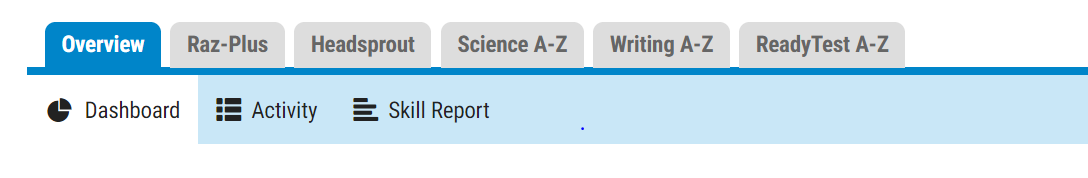
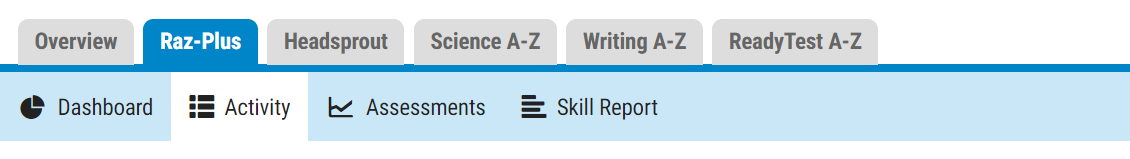
Update Reports case study

diff --git a/portfolio.js b/portfolio.js
@@ -1,11 +1,11 @@
 let portfolio = [];
 portfolio.push ({
     //thumbProtected: 'raz/dashboard-thumb.png',
-    thumbPublic: 'raz/dashboard-thumb.png',
+    thumbPublic: 'raz/reports-thumb.png',
     caption: 'Case Study',
     contentPublic:
         '<h2 class="galleryContent_description">UX/UI Design, HTML/CSS, PHP and Angular integration</h2>' +
-        '<img src="images/portfolio/raz/dashboard-banner.png" />' +
+        '<img src="images/portfolio/raz/reports-banner.png" />' +
         
         '<div class="caseStudy_section">' +
             '<h1 class="caseStudy_mainHeading">Reporting and Student Management</h1>' +
@@ -16,8 +16,7 @@ portfolio.push ({
                     '<h2>Problem</h2>' +
                 '</div>' +
                 '<div class="caseStudy_content">' +
-                    '<p>Learning A-Z consists of a family of products with interactive features that were becoming increasingly intertwined. Navigating multiple sites with similar interfaces, teachers were left unsure of where to go to update settings and view reports. My task was to design one student management portal to hold the student roster, settings, and reports so that teachers would only have to go one place.</p>' +
-                    '<p>In addition, reports consisted of unruly tables, and we needed a way to present at-a-glance views of data in a visually engaging way.</p>' +
+                    '<p>To manage students and monitor activity and skills in writing, reading, vocabulary, and science, teachers had to navigate multiple similar websites containing a lot of overlapping information. My task was to design one student management portal to hold the student roster, settings, and reports so that teachers could manage their classroom from one web location. In addition, the tables used to display student data  needed to be enhanced with a dashboard containing at-a-glance data visualizations to emphasize the information most important and useful for teachers.</p>' +
                 '</div>' +
             '</div>' +
         '</div>' +
@@ -27,30 +26,77 @@ portfolio.push ({
             '<hr />' +
             '<div class="caseStudy_row">' +
                 '<div class="caseStudy_headingContainer">' +
-                    '<h3>Plan & Design</h3>' +
+                    '<h3>Understand</h3>' +
                 '</div>' +
                 '<div class="caseStudy_content">' +
 
-                    '<p>To get started, I needed an understanding of what reports existed, and what similarities and differences there were between the reports available to each product. I went through the sites, familiarizing myself with the reports and taking stock of each one.</p>' +
+                    '<p>The primary instruction I was given was to take the existing reports and split them up based on subject or product. For example, the activity report could no longer hold the amount of data that needed to be displayed and teachers could not understand what all of the data meant or how it was related.</p>' +
 
-                    '<p>The primary instruction I was given was to add tabs to each report table to separate data for each product because everything could no longer fit in one table. After taking stock and finding that while certain reports were shared by all products, there were also reports unique to each product, my recommendation was to set up the tabbed navigation so that the user selects the product first before selecting the type of report, which was the opposite of the proposed requirement.</p>' +
+                    '<img class="frame" src="images/portfolio/raz/report-before.png" />' +
+                    
+                    '<p>To get started, I needed to take stock of the reports and understand the similarities and differences between the reports available to each product. Using the Activity report as an example, I listed out all of the activity types and the products they applied to, then re-listed them grouped first by product.</p>'+
+                    
+                    '<img class="frame" style="width: 500px;" src="images/portfolio/raz/reports-chart2.png" />' +
 
-                    '<img src="images/portfolio/raz/tabs.png" />' +
+                    '<p>The instruction I was given was to add tabs for each subject  at the top of each report so that teachers could select which subject\'s data they wanted to view. For example, after selecting "Activity", the teacher would select Reading, Writing, Science, Testing, or Headsprout. Not sure that this was the right approach, I also listed out each report type available to each product.</p>' +
+
+                    '<img class="frame" src="images/portfolio/raz/reports-chart1.png" />' +
+
+                    '<p>Each product has its own unique reports, so by listing the report-type first, teachers would be misled into thinking each report is available for each product. For example, a Writing teacher would click through all of the reports only to find that the only data available for Writing is Activity, or a Science teacher would click through all of the reports, only to find that Activity and Skills are the only relevant ones.</p>' +
+                    
                 '</div>' +
             '</div>' +
+
+            '<hr />' +
 
             '<div class="caseStudy_row">' +
                 '<div class="caseStudy_headingContainer">' +
+                    '<h3>Design</h3>' +
                 '</div>' +
                 '<div class="caseStudy_content">' +
-                    '<p>In addition, many other UI improvements were included in mockups for each section of the new student management site to clean up reporting and bring visual consistency and cleanliness throughout, and restructure tables to better combine and separate related and unrelated data.</p>' +
+                    '<p>The final design had a product-first tabbed navigation, allowing teachers to easily recognize which reports applied to which subject:</p>' +
 
+                    '<img src="images/portfolio/raz/tabs.png" />' +
+
+                    '<p>With a navigation strategy in place, I marched through the reports one by one, creating mockups showing how each one would look with the tabs incorporated, while also cleaning up the design and bringing visual consistency and throughout, and designing new reports that had since become necessary.</p>' +
+
+                    '<br />' +
                     '<img class="frame" src="images/portfolio/raz/report.png" />' +
-                    '<img class="frame" src="images/portfolio/raz/inBasket.png" />' +
-                    '<img class="frame" src="images/portfolio/raz/roster.png" />' +
                     '<img class="frame" src="images/portfolio/raz/report-hs.png" />' +
+                    '<br />' +
+
+                    '<p>In addition, other sections of the site besides reports needed prdouct tabs incorporated along with a design refresh.</p>' +
+
+                '</div><!-- content -->' +
+            '</div><!-- row -->' +
+
+            '<hr />' +
+
+            '<div class="caseStudy_row">' +
+                '<div class="caseStudy_img">' +
+                    '<h4>Before:</h4>' +
+                    '<img class="frame" src="images/portfolio/raz/reports-roster-before.png" />' +
+                '</div>' +
+                '<div class="caseStudy_img">' +
+                    '<h4>After:</h4>' +
+                    '<img class="frame" src="images/portfolio/raz/reports-roster-after.png" />' +
                 '</div>' +
             '</div>' +
+
+            '<hr />' +
+
+            '<div class="caseStudy_row">' +
+                '<div class="caseStudy_img">' +
+                    '<h4>Before:</h4>' +
+                    '<img class="frame" src="images/portfolio/raz/reports-studentProfile-before.png" />' +
+                '</div>' +
+                '<div class="caseStudy_img">' +
+                    '<h4>After:</h4>' +
+                    '<img class="frame" src="images/portfolio/raz/reports-studentProfile-after.png" />' +
+                '</div>' +
+            '</div>' +
+
+            '<hr />' +
 
             '<div class="caseStudy_row">' +
                 '<div class="caseStudy_headingContainer">' +
@@ -61,11 +107,39 @@ portfolio.push ({
                 '</div>' +
             '</div>' +
 
-            '<hr />' +
-
+        '</div>' +
+        
+        '<div class="caseStudy_section">' +
             '<div class="caseStudy_row">' +
                 '<div class="caseStudy_headingContainer">' +
-                    '<h3>Dashboards</h3>' +
+                    '<h2>Outcome</h2>' +
+                '</div>' +
+                '<div class="caseStudy_content">' +
+
+                    '<p>In the end, teachers did have a single place to go to manage students, and a reorganized interface to review cleaned up reports. In that sense, the project was a success. Many issues were also uncovered and a lot of redesign and refactoring took place throughout the project that will help with future improvements for both engineering and design. But there was a lack of real data to support hypothesis about how teachers would use the site, and outstanding questions and concerns remain about the effectiveness of the reports, and whether or not the architecture and navigation patterns used are the correct ones.</p>' +
+
+                    '<p>Gathering data to develop a clear understanding of the problems that need to be solved and for which types of users could have led to a much more successful outcome of the student management portal. Learning to advocate for these needs and push for a more design-centric process while still respecting and cooperating with existing strategies and processes is a difficult task. There is still much to improve, but this project was a step in the right direction, and opened a door to more user-centric product development.</p>' +
+
+                '</div>' +
+            '</div>' +
+        '</div>'
+})
+/*
+portfolio.push ({
+    //thumbProtected: 'raz/dashboard-thumb.png',
+    thumbPublic: 'raz/dashboard-thumb.png',
+    caption: 'Case Study',
+    contentPublic:
+        '<h2 class="galleryContent_description">UX/UI Design, HTML/CSS, PHP and Angular integration</h2>' +
+        '<img src="images/portfolio/raz/dashboard-banner.png" />' +
+
+        '<div class="caseStudy_section">' +
+            '<h1 class="caseStudy_mainHeading">Teacher Dashboards</h1>' +
+            '<h2 class="caseStudy_mainSubheading">Learning A-Z</h2>' +
+            '<hr />' +
+            '<div class="caseStudy_row">' +
+                '<div class="caseStudy_headingContainer">' +
+                    '<h2>Problem</h2>' +
                 '</div>' +
                 '<div class="caseStudy_content">' +
 
@@ -101,8 +175,6 @@ portfolio.push ({
                 '</div>' +
             '</div>' +
             
-            
-
         '</div>' +
         
         '<div class="caseStudy_section">' +
@@ -122,6 +194,7 @@ portfolio.push ({
             '</div>' +
         '</div>'
 });
+*/
 portfolio.push ({
     //thumbProtected: 'raz/codeStandards-thumb.png',
     thumbPublic: 'raz/codeStandards-thumb.png',
